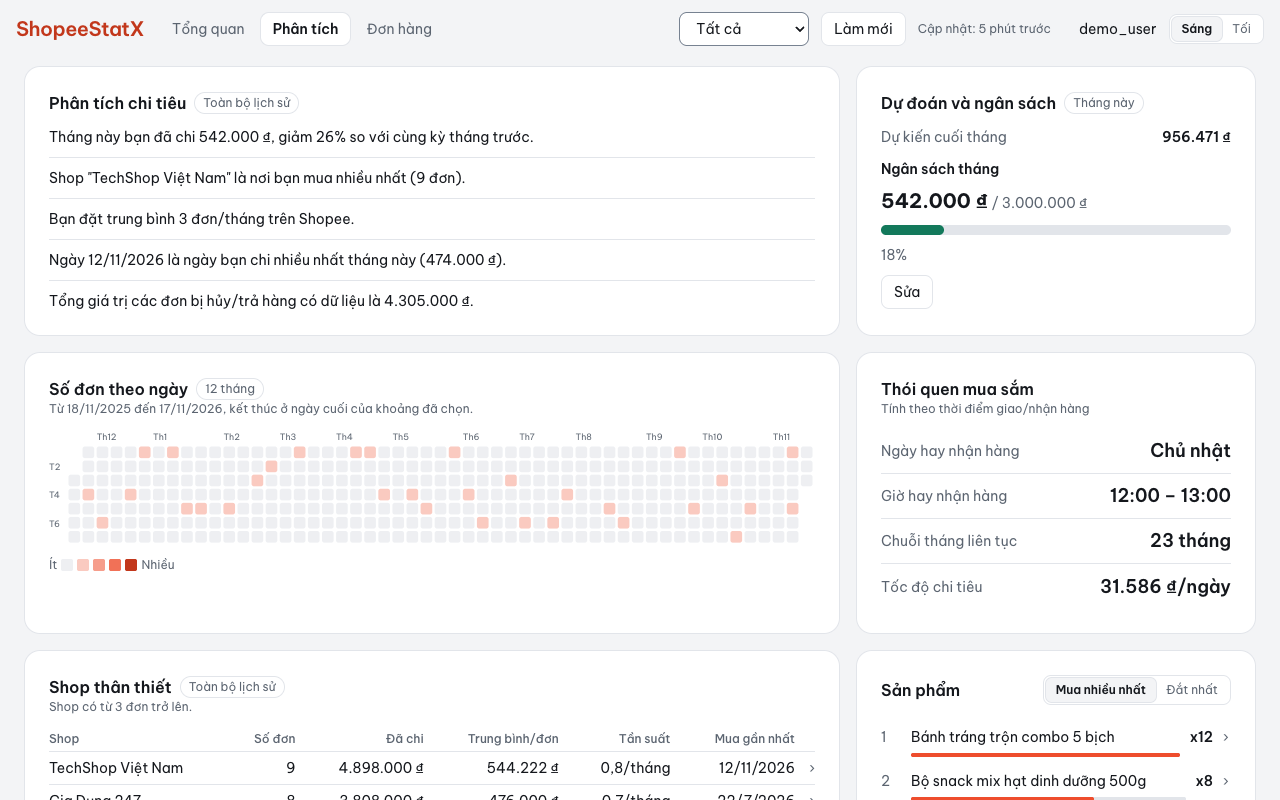
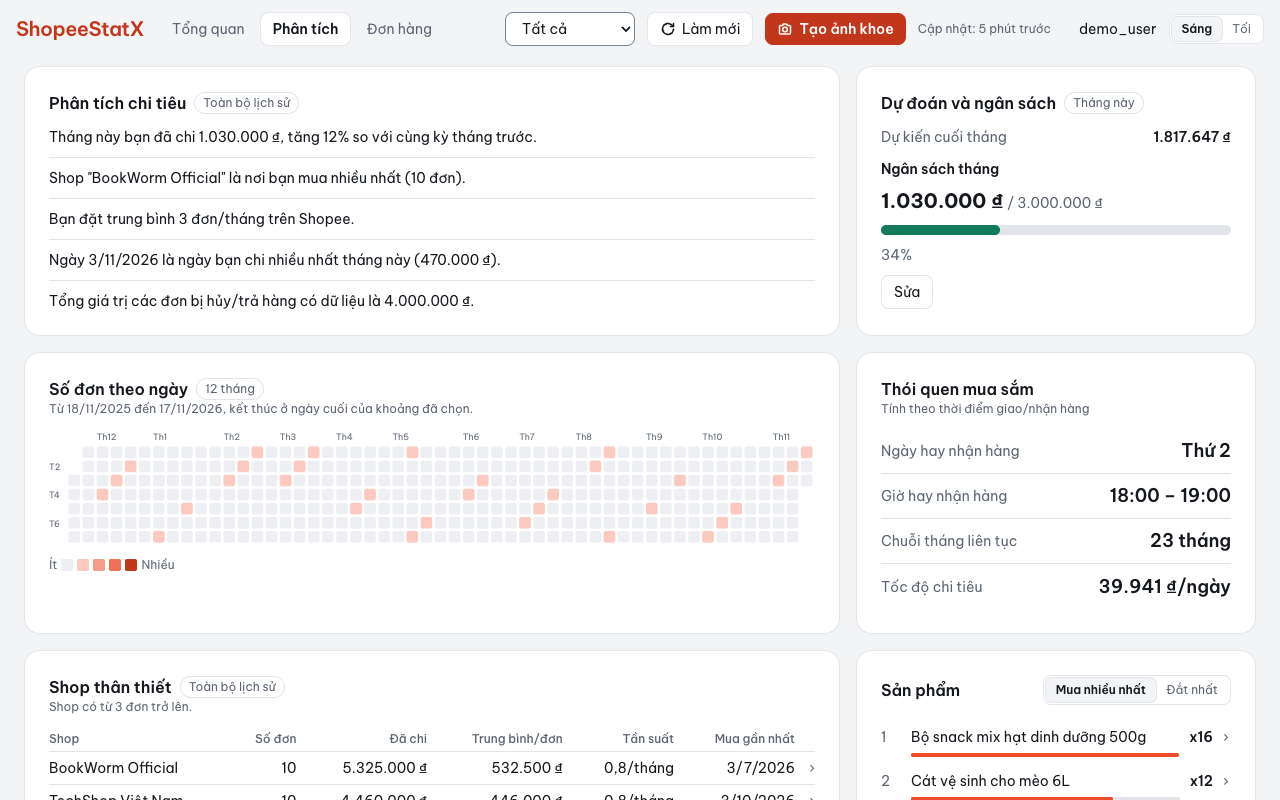
docs: recapture store screenshots for the share-image focus
Same 1280×800 rules and fictional 69-order fixture (now recorded in the README): Overview with the
year card, Analysis with the 3.000.000 ₫ budget, Orders with an expanded row, the «Tạo ảnh khoe»
dialog (year, Thành viên Bạc, store QR), and the popup leading with «Tạo ảnh khoe».

diff --git a/store-assets/screenshots/README.md b/store-assets/screenshots/README.md
@@ -4,24 +4,24 @@ Five **1280 × 800 PNG** images show the current dashboard and popup. They are s
 
 ## Current set
 
-Captured from the 3.5.0 source after the November 2026 redesign. These images describe the source build, not a claim that this build has already been published to the Store.
+Captured on 19 November 2026 from the source after the share-image focus (toolbar «Tạo ảnh khoe», year card, tier badge and store QR). These images describe the source build, not a claim that this build has already been published to the Store.
 
 | File | Captured state |
 | --- | --- |
-| `01-summary-cards.png` | Overview: net spend, same-period month/year comparisons, refunds, estimated savings, monthly chart with average line and top shops |
+| `01-summary-cards.png` | Overview: net spend with same-period month/year comparisons, the «Tổng kết Shopee 2026» year card with its live thumbnail, the four figures, monthly chart with average line and top shops |
 | `02-charts.png` | Analysis: spending insights, enabled monthly budget, daily heatmap, habits; repeat shops and products continue below the viewport |
 | `03-order-details.png` | Orders: grouped by month, one completed order expanded with line items and estimated savings |
-| `04-share-image.png` | Overview with the share dialog open: Vận đơn template, square ratio, aggregate figures only |
-| `05-popup.png` | Actual 380px popup centered on a neutral 1280 × 800 canvas; Start enabled and cached-orders summary through a mock host, with an explicit demo caption |
+| `04-share-image.png` | Overview with the share dialog opened from the toolbar: «Năm 2026», Vận đơn template, square ratio, «Thành viên Bạc» badge, store QR, aggregate figures only; «Lưu ảnh» first |
+| `05-popup.png` | Actual 380px popup centered on a neutral 1280 × 800 canvas; cached-orders summary with «Tạo ảnh khoe» leading through a mock host, with an explicit demo caption |
 
 ## Capture rules
 
 1. Run `npm run dev`; open `http://localhost:5173/dashboard-app/dashboard.html`. Outside the extension, the dashboard uses mock data and makes no Shopee requests.
 2. Use a **1280 × 800 CSS-pixel viewport at device scale factor 1**, Light mode, normal zoom. Confirm the saved PNG is also 1280 × 800; a high-DPI screenshot is not the same size as its viewport.
-3. Use deterministic fictional data. This set uses 69 orders (three a month) from fictional products/shops, delivery dates from January 2025 through mid-November 2026, synthetic order IDs beginning `251202000100001`, and account `demo_user`. Fix the dashboard clock to 17 November 2026, 20:30. Set a 3,000,000₫ monthly budget at an 80% warning threshold so the budget and forecast have representative content.
+3. Use deterministic fictional data. This set uses 69 orders (three a month, on the 3rd, 9th and 15th) from fictional products/shops, delivery dates from January 2025 through mid-November 2026, eight excluded (four cancelled, four returned) so 61 count, synthetic order IDs beginning `251202000100001`, and account `demo_user`. Fix the dashboard clock to 17 November 2026, 20:30, with the cache updated at 20:25. Set a 3,000,000₫ monthly budget at an 80% warning threshold so the budget and forecast have representative content.
 4. Use real components and host seams to provide the fixture. Do not change production UI, hide controls, alter calculations or paint data onto the screenshot. Give the demo orders item totals above the paid amount to demonstrate estimated savings; keep line-item totals consistent with those values.
 5. Wait for fonts, data and charts to render. Keep the dashboard at the top of its scroll region for this set. Remove transient refresh notices by opening a clean cached-data session, not by hiding the notice element.
-6. Capture Orders with a real expanded row, and the share dialog opened from Overview with its default template. Keep labels and amounts readable; do not include private data or browser credentials.
+6. Capture Orders with a real expanded row, and the share dialog opened from the toolbar's «Tạo ảnh khoe» with its defaults. Keep labels and amounts readable; do not include private data or browser credentials.
 7. For the popup, mock the Chrome host's active-tab lookup rather than opening an authenticated Shopee page. Center the actual popup on a neutral canvas and label it **Dữ liệu minh họa · Không phải tài khoản Shopee thật**. Do not imply a live session.
 8. Inspect every saved PNG, check dimensions and paths, and verify the images render in both READMEs. These are source screenshots, so recapture after visible UI changes before submitting a Store update.
 

diff --git a/README.md b/README.md
@@ -21,11 +21,11 @@ Tiện ích Chrome tổng hợp lịch sử mua hàng **Shopee Việt Nam** thà
 
 | Tổng quan | Phân tích |
 | --- | --- |
-| ![Tổng quan: chi tiêu ròng, so sánh tháng, hoàn tiền, tiết kiệm ước tính và biểu đồ chi tiêu](store-assets/screenshots/01-summary-cards.png) | ![Phân tích: nhận xét, ngân sách tháng, biểu đồ nhiệt và thói quen mua sắm](store-assets/screenshots/02-charts.png) |
+| ![Tổng quan: chi tiêu ròng, thẻ tổng kết năm, hoàn tiền, tiết kiệm ước tính và biểu đồ chi tiêu](store-assets/screenshots/01-summary-cards.png) | ![Phân tích: nhận xét, ngân sách tháng, biểu đồ nhiệt và thói quen mua sắm](store-assets/screenshots/02-charts.png) |
 | **Đơn hàng** | **Ảnh chia sẻ** |
-| ![Đơn hàng theo tháng, một đơn mở chi tiết từng sản phẩm](store-assets/screenshots/03-order-details.png) | ![Hộp tạo ảnh chia sẻ chỉ chứa số liệu tổng hợp](store-assets/screenshots/04-share-image.png) |
+| ![Đơn hàng theo tháng, một đơn mở chi tiết từng sản phẩm](store-assets/screenshots/03-order-details.png) | ![Hộp tạo ảnh khoe: tổng kết năm, hạng thành viên và mã QR, chỉ chứa số liệu tổng hợp](store-assets/screenshots/04-share-image.png) |
 | **Popup** | |
-| ![Popup với nút Bắt đầu phân tích và tóm tắt dữ liệu đã lưu](store-assets/screenshots/05-popup.png) | |
+| ![Popup với nút Tạo ảnh khoe và tóm tắt dữ liệu đã lưu](store-assets/screenshots/05-popup.png) | |
 
 <sub>Ảnh dùng dữ liệu minh họa, không phải lịch sử mua hàng thật.</sub>
 

diff --git a/docs/guide/README-en.md b/docs/guide/README-en.md
@@ -21,11 +21,11 @@ A Chrome extension that turns your **Shopee Vietnam** order history into spendin
 
 | Overview | Analysis |
 | --- | --- |
-| ![Overview: net spend, monthly comparisons, refunds, estimated savings and spending chart](../../store-assets/screenshots/01-summary-cards.png) | ![Analysis: insights, monthly budget, daily heatmap and shopping habits](../../store-assets/screenshots/02-charts.png) |
+| ![Overview: net spend, year summary card, refunds, estimated savings and spending chart](../../store-assets/screenshots/01-summary-cards.png) | ![Analysis: insights, monthly budget, daily heatmap and shopping habits](../../store-assets/screenshots/02-charts.png) |
 | **Orders** | **Share image** |
-| ![Orders grouped by month, one order expanded with its line items](../../store-assets/screenshots/03-order-details.png) | ![Share image dialog with aggregate figures only](../../store-assets/screenshots/04-share-image.png) |
+| ![Orders grouped by month, one order expanded with its line items](../../store-assets/screenshots/03-order-details.png) | ![Share image dialog: year summary, membership tier and QR code, aggregate figures only](../../store-assets/screenshots/04-share-image.png) |
 | **Popup** | |
-| ![Popup with the Start analysis button and a summary of saved data](../../store-assets/screenshots/05-popup.png) | |
+| ![Popup leading with Tạo ảnh khoe and a summary of saved data](../../store-assets/screenshots/05-popup.png) | |
 
 <sub>Screenshots show the Vietnamese interface with fictional demo data, not real purchases.</sub>
 
